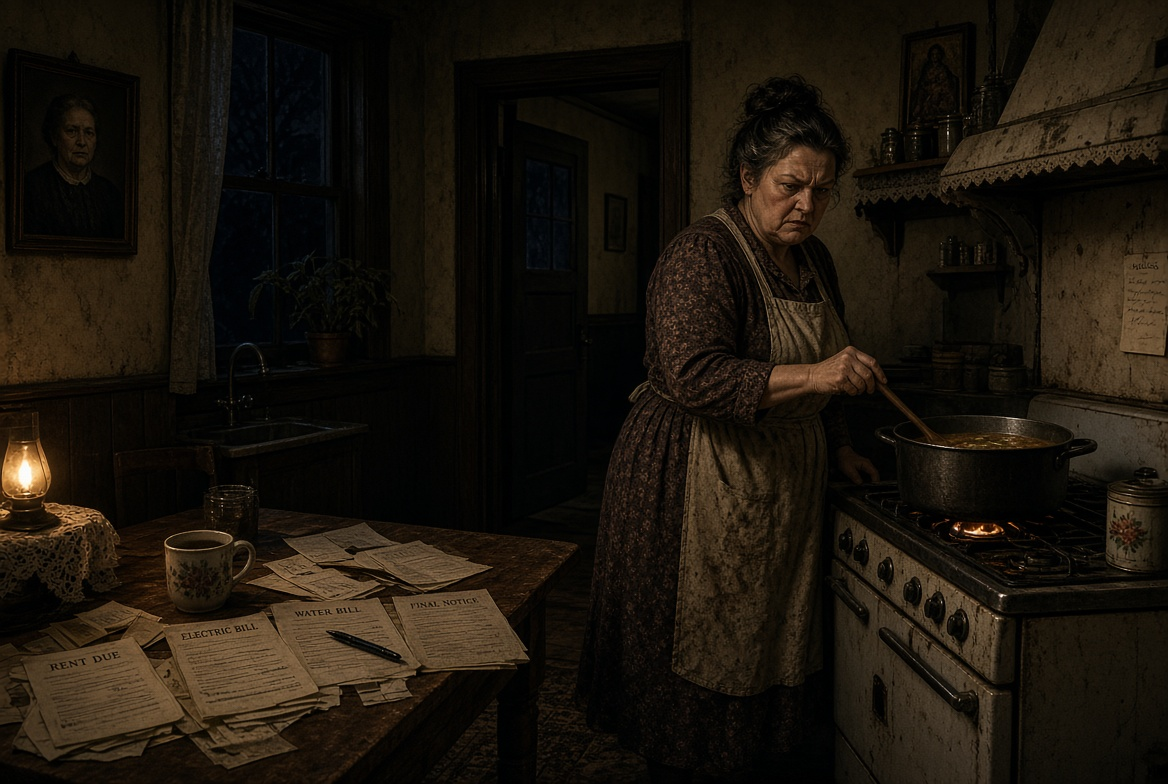
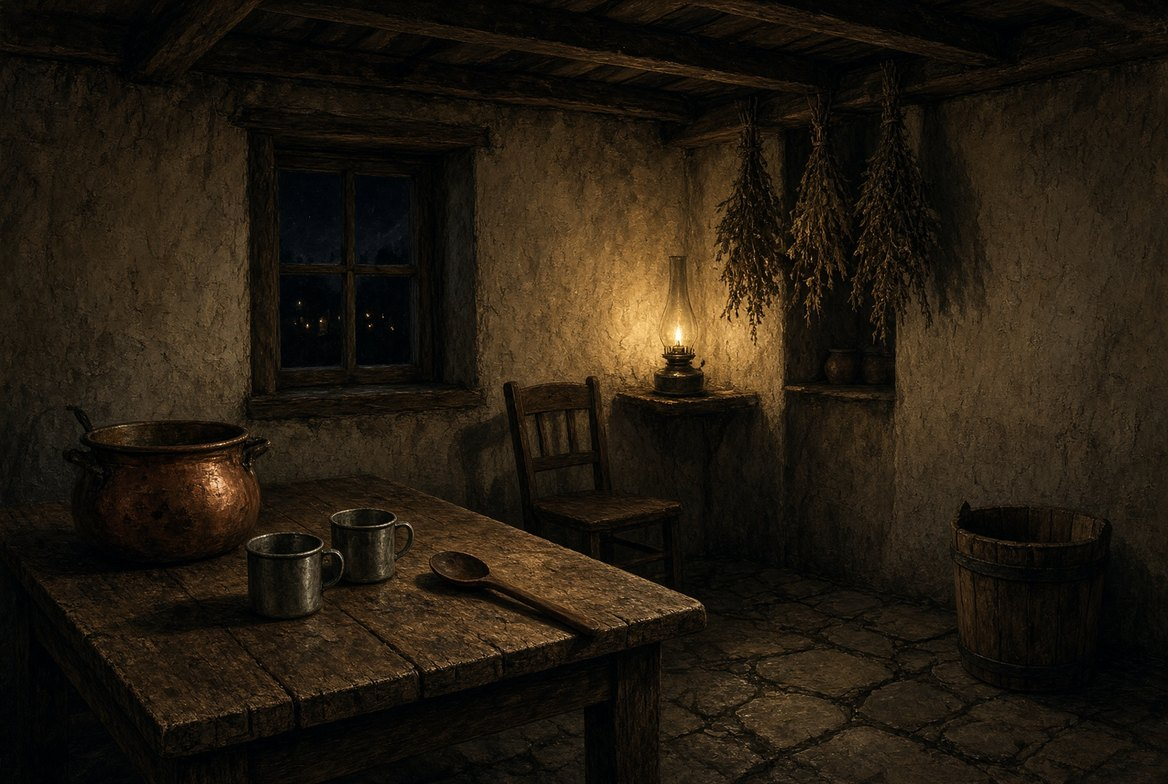
Cadmon: empty Penn kitchen and the Odile churchyard

diff --git a/src/projects/cadmon/scenario.ts b/src/projects/cadmon/scenario.ts
@@ -84,6 +84,19 @@ const nodes: ScenarioNode[] = [
     "Уголь, лопата, пустые мешки. Тупик. Никакой кабинки и никакого святого.",
     "/cadmon/shed.jpg"),
 
+  loc("loc_lych", "Калитка кладбища", 40, 480, "lych",
+    "Низкая железная калитка в ограде прихода. За ней камни, не площадь. Фонарь с паперти сюда почти не достаёт.",
+    "/cadmon/lych.jpg"),
+  loc("loc_graveyard", "Кладбище Одели", 40, 720, "graveyard",
+    "Ночные могилы прихода. Кривые плиты, мокрая трава. Имени Кадмона на камнях нет: имена местные и старые.",
+    "/cadmon/graveyard.jpg"),
+  loc("loc_salt", "Могила Сольта", 240, 960, "salt",
+    "Камень простой, относительно свежий. В банке те же цветы, что у Анны на столе. Кадмона здесь нет.",
+    "/cadmon/salt.jpg"),
+  loc("loc_north", "Северная стена", 40, 960, "northwall",
+    "Тупик. Плющ, осыпавшаяся кладка. На кусте тёмно-красная тряпка. Это не занавесь и не вход.",
+    "/cadmon/northwall.jpg"),
+
   loc("loc_anna", "Дом Анны Сольт", 520, 120, "anna",
     "Тесная кухня. Цветы в банке, чай, фото мужа. Анна смотрит в сторону церкви, когда говорит о Боге.",
     "/cadmon/anna.jpg"),
@@ -210,6 +223,21 @@ const nodes: ScenarioNode[] = [
     inspectResult: "Плат не ночного кроя. Под ним флакон и остаток, который не кость святого. Пахнет внушаемостью, не ладаном. Упаковать без имени Кадмона.",
     once: true,
   }),
+  node("ins_stones", "inspect", "Плиты", 160, 720, {
+    inspectLabel: "Искать имя Кадмона",
+    inspectResult: "Плиты стёрты солью и дождём. Читаются местные фамилии и Одель в поминальных формулах. Кадмона нет. Кадмана тоже нет.",
+    once: true,
+  }),
+  node("ins_salt", "inspect", "Банка с цветами", 360, 960, {
+    inspectLabel: "Посмотреть могилу Сольта",
+    inspectResult: "Имя мужа Анны, дата трёхлетней давности. Цветы в банке свежие, те же, что на её столе. К кабинке это не ведёт.",
+    once: true,
+  }),
+  node("ins_ribbon", "inspect", "Тряпка на кусте", 160, 960, {
+    inspectLabel: "Снять тряпку",
+    inspectResult: "Крашеная шерсть, мокрая, с репьями. Не занавесь. За стеной огород и чужой забор, хода нет.",
+    once: true,
+  }),
 ];
 
 const edges: ScenarioEdge[] = [
@@ -219,6 +247,16 @@ const edges: ScenarioEdge[] = [
   edge("loc_square", "loc_porch", "out", "in", "На паперть"),
   edge("loc_porch", "loc_nave", "out", "in", "В неф"),
   edge("loc_nave", "loc_porch", "out", "in", "На паперть"),
+  edge("loc_porch", "loc_lych", "out", "in", "К калитке"),
+  edge("loc_lych", "loc_porch", "out", "in", "На паперть"),
+  edge("loc_lych", "loc_graveyard", "out", "in", "На кладбище"),
+  edge("loc_graveyard", "loc_lych", "out", "in", "К калитке"),
+  edge("loc_alley", "loc_graveyard", "out", "in", "Вдоль стены"),
+  edge("loc_graveyard", "loc_alley", "out", "in", "В переулок"),
+  edge("loc_graveyard", "loc_salt", "out", "in", "К могиле Сольта"),
+  edge("loc_salt", "loc_graveyard", "out", "in", "На кладбище"),
+  edge("loc_graveyard", "loc_north", "out", "in", "К северной стене"),
+  edge("loc_north", "loc_graveyard", "out", "in", "Назад"),
 
   edge("loc_square", "loc_nave", "out", "in", "В церковь"),
   edge("loc_nave", "loc_square", "out", "in", "На площадь"),
@@ -268,6 +306,9 @@ const edges: ScenarioEdge[] = [
   edge("loc_constable", "ins_protocol", "events", "in"),
   edge("loc_penn", "npc_penn", "events", "in"),
   edge("loc_booth", "ins_vial", "events", "in"),
+  edge("loc_graveyard", "ins_stones", "events", "in"),
+  edge("loc_salt", "ins_salt", "events", "in"),
+  edge("loc_north", "ins_ribbon", "events", "in"),
 ];
 
 export const cadmonScenario: ScenarioDocument = {
@@ -281,8 +322,8 @@ export const cadmonScenario: ScenarioDocument = {
     playersMin: 1,
     playersMax: 4,
     status: "draft",
-    version: "0.1.1",
-    updatedAt: "2026-10-22T20:15:00.000Z",
+    version: "0.1.2",
+    updatedAt: "2026-10-22T21:00:00.000Z",
   },
   loreBaseId: "lotm",
   nodes,
